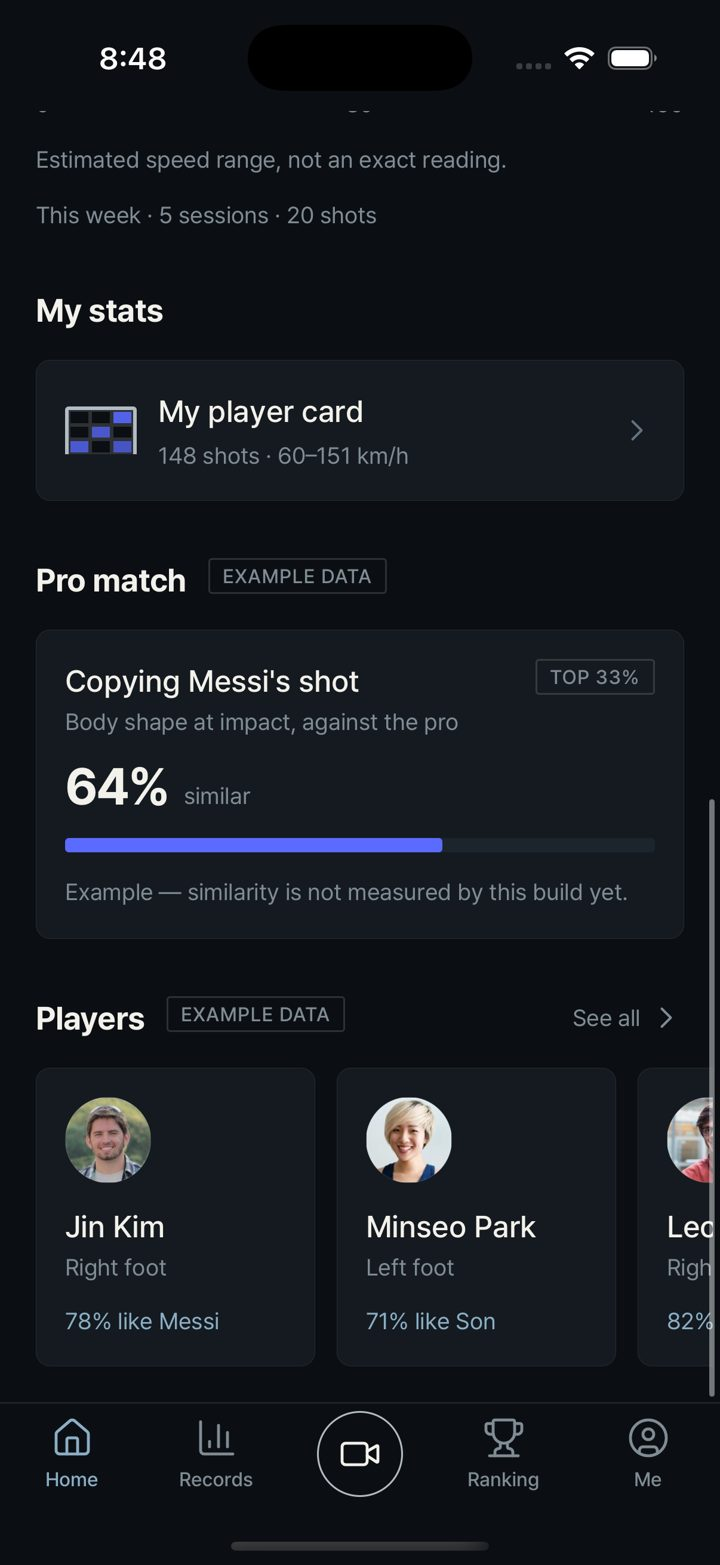
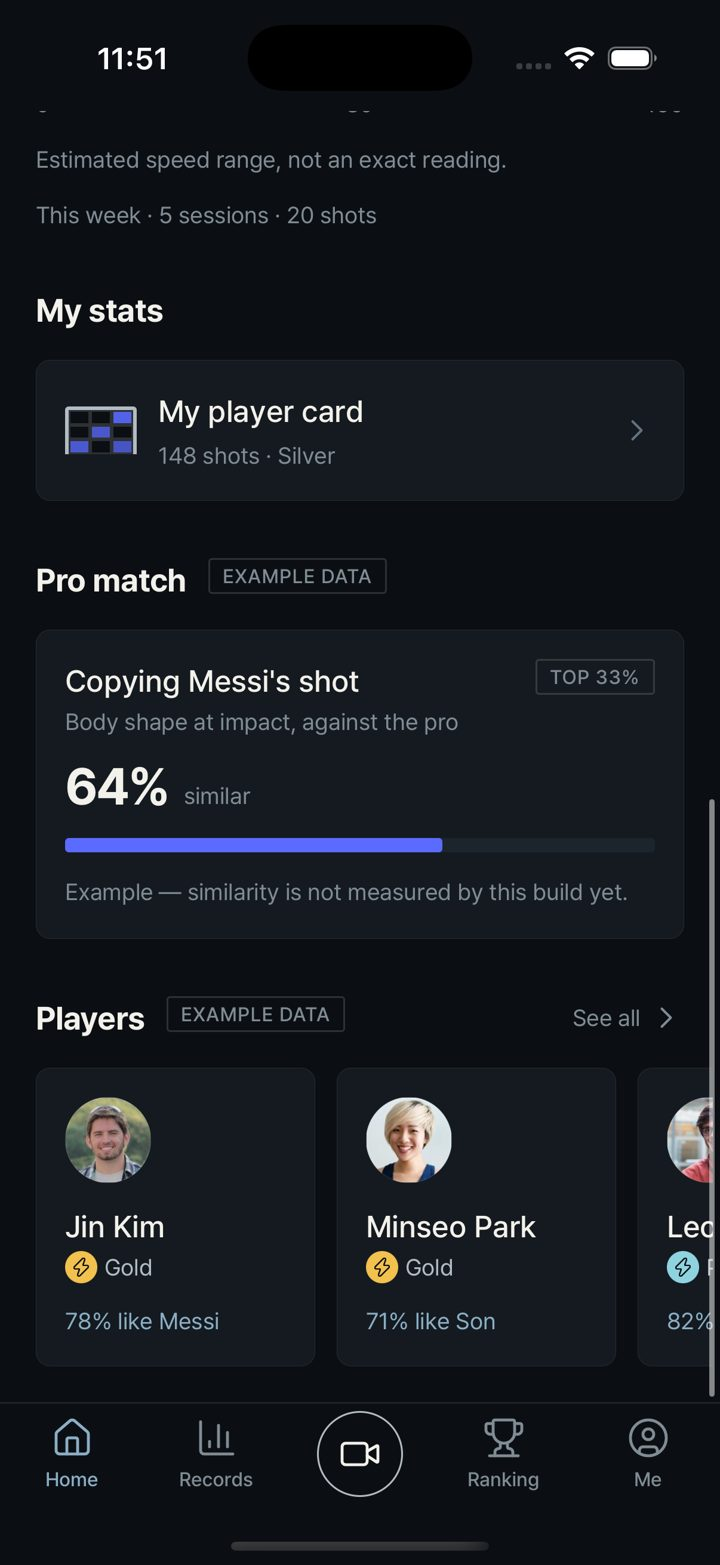
rev 4: personal-best tiers, live ranking board

diff --git a/index.html b/index.html
@@ -12,8 +12,8 @@ figcaption{font-size:13px;color:var(--muted);margin-top:8px}
 .note{background:var(--card);border:1px solid var(--line);border-radius:12px;padding:12px 16px;margin:12px 0}
 footer{max-width:1400px;margin:24px auto;padding:16px 20px;border-top:1px solid var(--line);color:var(--muted);font-size:13px}
 </style></head><body>
-<header><h1>STRYKE — UI preview</h1><p>Native iOS simulator captures (iPhone 17 Pro), 17 September 2026 (rev 3: no speed beside names, text-and-bar pro match, smoothed speed line), branch <code>vxbrandon/dev-2026-09-17-2</code>. Every player, similarity figure and shot map on these screens is <strong>example data</strong> and is marked as such on the screen itself.</p>
+<header><h1>STRYKE — UI preview</h1><p>Native iOS simulator captures (iPhone 17 Pro), 17 September 2026 (rev 4: personal-best tiers, live ranking board), branch <code>vxbrandon/dev-2026-09-17-2</code>. Every player, similarity figure and shot map on these screens is <strong>example data</strong> and is marked as such on the screen itself.</p>
 <div class="note">Flow: loading animation → landing page (first launch only) → Home (my stats · pro match · players) → player card (shot map · zone % · speed · stats · add friend) → Records (ribbon chart) → Ranking → Me.</div></header>
-<section><h2>Loading</h2><div class="row"><figure><img src="img/00-splash_8.jpg" alt="Loading page — the STRYKE mark strikes in along its outline" loading="lazy"><figcaption>Loading page — the STRYKE mark strikes in along its outline</figcaption></figure><figure><img src="img/01-splash_9.jpg" alt="Loading page — the lime accent flashes along the stroke" loading="lazy"><figcaption>Loading page — the lime accent flashes along the stroke</figcaption></figure><figure><img src="img/02-splash_10.jpg" alt="Loading page — filled mark and wordmark, before the plate lifts" loading="lazy"><figcaption>Loading page — filled mark and wordmark, before the plate lifts</figcaption></figure></div></section><section><h2>Landing</h2><div class="row"><figure><img src="img/03-w1.jpg" alt="Landing page (first launch) — silhouettes from the asset board, three promises, Get started" loading="lazy"><figcaption>Landing page (first launch) — silhouettes from the asset board, three promises, Get started</figcaption></figure></div></section><section><h2>Home</h2><div class="row"><figure><img src="img/04-home_top.jpg" alt="Home — capture first, recent session" loading="lazy"><figcaption>Home — capture first, recent session</figcaption></figure><figure><img src="img/05-home_c.jpg" alt="Home — My stats, Pro match (text and bar, no icon), Players rail with portraits" loading="lazy"><figcaption>Home — My stats, Pro match (text and bar, no icon), Players rail with portraits</figcaption></figure></div></section><section><h2>Records</h2><div class="row"><figure><img src="img/06-records.jpg" alt="Records — weekly top speed as a smoothed line with a fading uncertainty band" loading="lazy"><figcaption>Records — weekly top speed as a smoothed line with a fading uncertainty band</figcaption></figure></div></section><section><h2>Players</h2><div class="row"><figure><img src="img/07-list1.jpg" alt="Players list — portraits, no speed beside the name, example mark on every row" loading="lazy"><figcaption>Players list — portraits, no speed beside the name, example mark on every row</figcaption></figure></div></section><section><h2>Player card</h2><div class="row"><figure><img src="img/08-p1b.jpg" alt="Player card — portrait header, shots · sessions · active days, Add friend" loading="lazy"><figcaption>Player card — portrait header, shots · sessions · active days, Add friend</figcaption></figure><figure><img src="img/09-p9.jpg" alt="Player card — Shot map: green inside, red outside (Sofascore hit/miss colours)" loading="lazy"><figcaption>Player card — Shot map: green inside, red outside (Sofascore hit/miss colours)</figcaption></figure><figure><img src="img/10-p6.jpg" alt="Player card — Zone % grid on the Sofascore blue heat scale" loading="lazy"><figcaption>Player card — Zone % grid on the Sofascore blue heat scale</figcaption></figure><figure><img src="img/11-p7b.jpg" alt="Player card — Speed: smoothed weekly line, gap for the week with no record" loading="lazy"><figcaption>Player card — Speed: smoothed weekly line, gap for the week with no record</figcaption></figure><figure><img src="img/12-p7c.jpg" alt="Player card — Speed on a player with four measured weeks" loading="lazy"><figcaption>Player card — Speed on a player with four measured weeks</figcaption></figure><figure><img src="img/13-p8.jpg" alt="Player card — Stats tab, key stats list" loading="lazy"><figcaption>Player card — Stats tab, key stats list</figcaption></figure><figure><img src="img/14-me1.jpg" alt="My own card — built from the phone&#x27;s real shots" loading="lazy"><figcaption>My own card — built from the phone&#x27;s real shots</figcaption></figure></div></section><section><h2>Ranking</h2><div class="row"><figure><img src="img/15-rankings.jpg" alt="Ranking — board needs the dev Postgres (see notes); rows open a player card when it is up" loading="lazy"><figcaption>Ranking — board needs the dev Postgres (see notes); rows open a player card when it is up</figcaption></figure></div></section><section><h2>Me</h2><div class="row"><figure><img src="img/16-metab.jpg" alt="Me — My player card and Intro rows added" loading="lazy"><figcaption>Me — My player card and Intro rows added</figcaption></figure></div></section>
-<footer>Loading frames are single simulator screenshots taken during the animation. The ranking board reads the local API, whose Postgres was not running when these were taken; with <code>make db-up &amp;&amp; make seed-demo</code> its rows open the matching player card.</footer>
+<section><h2>Loading</h2><div class="row"><figure><img src="img/00-splash_8.jpg" alt="Loading page — the STRYKE mark strikes in along its outline" loading="lazy"><figcaption>Loading page — the STRYKE mark strikes in along its outline</figcaption></figure><figure><img src="img/01-splash_9.jpg" alt="Loading page — the lime accent flashes along the stroke" loading="lazy"><figcaption>Loading page — the lime accent flashes along the stroke</figcaption></figure><figure><img src="img/02-splash_10.jpg" alt="Loading page — filled mark and wordmark, before the plate lifts" loading="lazy"><figcaption>Loading page — filled mark and wordmark, before the plate lifts</figcaption></figure></div></section><section><h2>Landing</h2><div class="row"><figure><img src="img/03-w1.jpg" alt="Landing page (first launch) — silhouettes from the asset board, three promises, Get started" loading="lazy"><figcaption>Landing page (first launch) — silhouettes from the asset board, three promises, Get started</figcaption></figure></div></section><section><h2>Home</h2><div class="row"><figure><img src="img/04-home_top.jpg" alt="Home — capture first, recent session" loading="lazy"><figcaption>Home — capture first, recent session</figcaption></figure><figure><img src="img/05-home_c.jpg" alt="Home — My stats with tier, Pro match, Players rail with portraits and tier chips" loading="lazy"><figcaption>Home — My stats with tier, Pro match, Players rail with portraits and tier chips</figcaption></figure></div></section><section><h2>Records</h2><div class="row"><figure><img src="img/06-records.jpg" alt="Records — weekly top speed as a smoothed line with a fading uncertainty band" loading="lazy"><figcaption>Records — weekly top speed as a smoothed line with a fading uncertainty band</figcaption></figure></div></section><section><h2>Players</h2><div class="row"><figure><img src="img/07-list1.jpg" alt="Players list — portraits, foot and tier in the subtitle, example mark on every row" loading="lazy"><figcaption>Players list — portraits, foot and tier in the subtitle, example mark on every row</figcaption></figure></div></section><section><h2>Player card</h2><div class="row"><figure><img src="img/08-p1b.jpg" alt="Player card — portrait, tier chip, shots · sessions · active days, Add friend" loading="lazy"><figcaption>Player card — portrait, tier chip, shots · sessions · active days, Add friend</figcaption></figure><figure><img src="img/09-p9.jpg" alt="Player card — Shot map: green inside, red outside" loading="lazy"><figcaption>Player card — Shot map: green inside, red outside</figcaption></figure><figure><img src="img/10-p6.jpg" alt="Player card — Zone % grid on the blue heat scale" loading="lazy"><figcaption>Player card — Zone % grid on the blue heat scale</figcaption></figure><figure><img src="img/11-p7b.jpg" alt="Player card — Speed: smoothed weekly line, gap for the week with no record" loading="lazy"><figcaption>Player card — Speed: smoothed weekly line, gap for the week with no record</figcaption></figure><figure><img src="img/12-p7c.jpg" alt="Player card — Speed on a player with four measured weeks" loading="lazy"><figcaption>Player card — Speed on a player with four measured weeks</figcaption></figure><figure><img src="img/13-p8.jpg" alt="Player card — Stats tab with the personal-best tier row" loading="lazy"><figcaption>Player card — Stats tab with the personal-best tier row</figcaption></figure><figure><img src="img/14-me1.jpg" alt="My own card — built from the phone&#x27;s real shots" loading="lazy"><figcaption>My own card — built from the phone&#x27;s real shots</figcaption></figure></div></section><section><h2>Ranking</h2><div class="row"><figure><img src="img/15-rankings.jpg" alt="Ranking — live board from the local API (nine seeded test accounts); rows open a player card" loading="lazy"><figcaption>Ranking — live board from the local API (nine seeded test accounts); rows open a player card</figcaption></figure></div></section><section><h2>Me</h2><div class="row"><figure><img src="img/16-metab.jpg" alt="Me — personal best as a tier (Silver · reached 60 km/h · Gold at 80), My player card, Intro" loading="lazy"><figcaption>Me — personal best as a tier (Silver · reached 60 km/h · Gold at 80), My player card, Intro</figcaption></figure></div></section>
+<footer>Loading frames are single simulator screenshots taken during the animation. The ranking board now reads the local API against the Homebrew Postgres; the nine rows are seeded test accounts and say so.</footer>
 </body></html>
